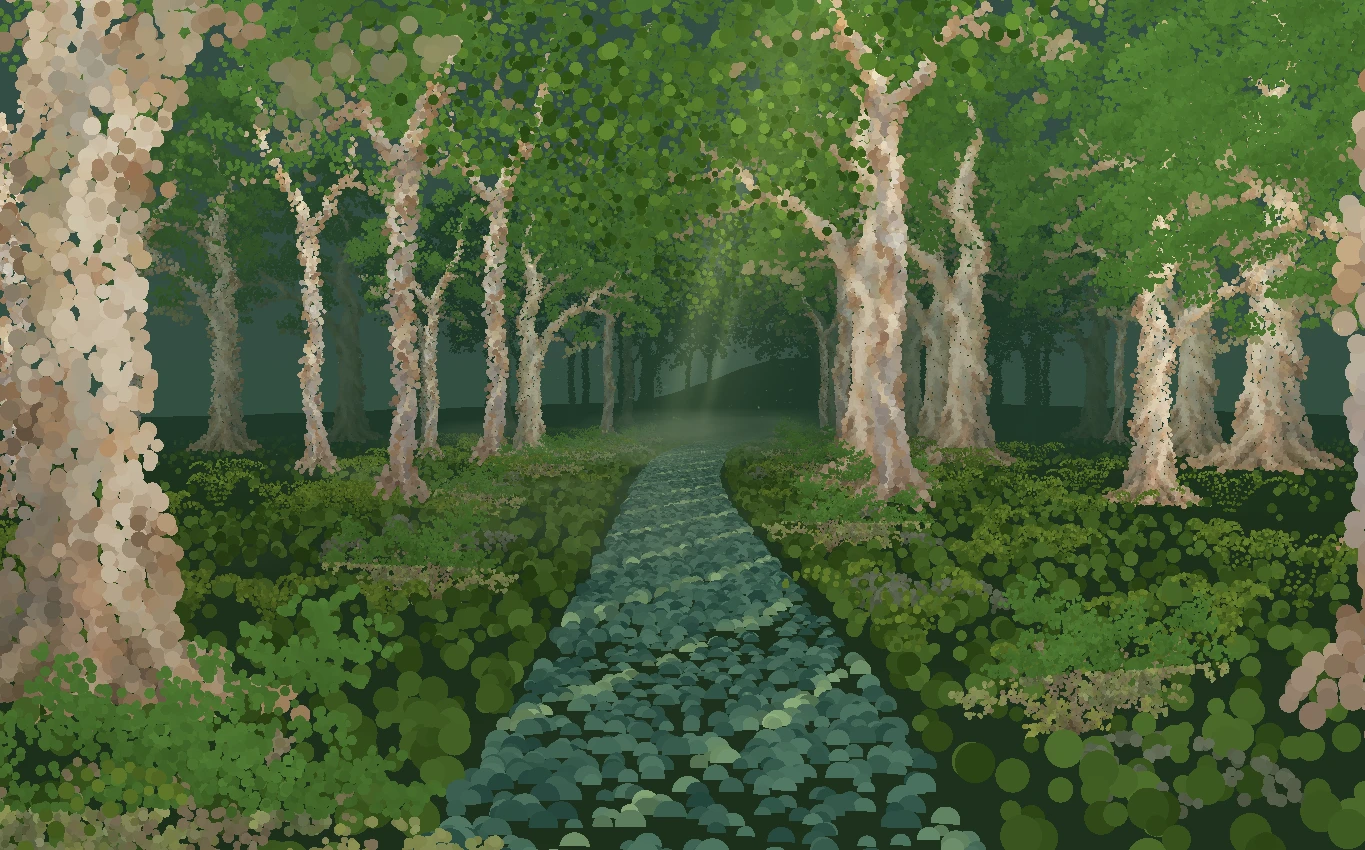
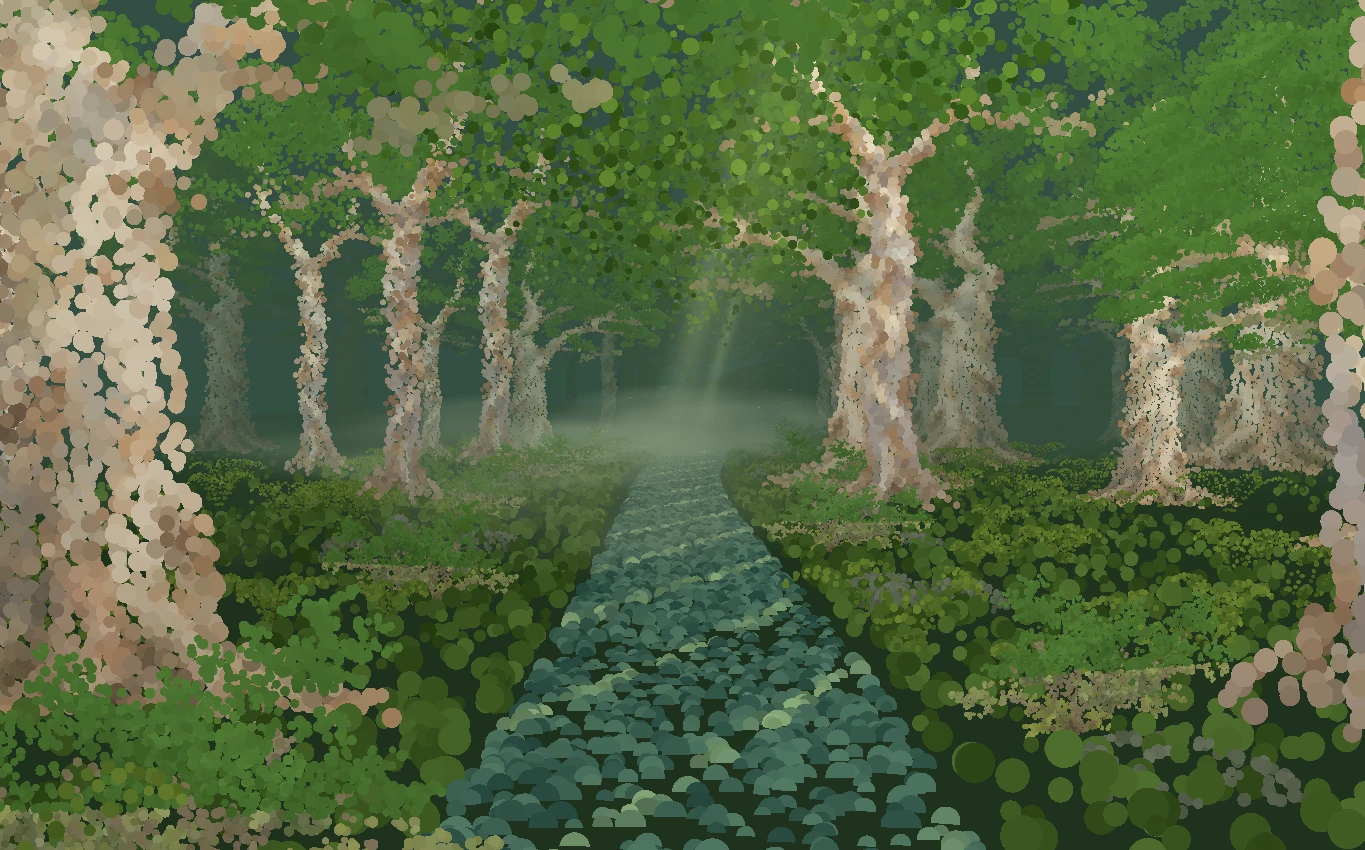
Refine woodland proportions, daylight mist and research copy

Changed region(s): [[0.0, 0.0, 1.0, 0.8871]]

diff --git a/journey.js b/journey.js
@@ -1,12 +1,12 @@
 import * as THREE from './assets/vendor/three.module.js';
-import {seeded,loadIllustration,treeGeometry,creekX,terrainHeight,groundChunk,waterChunk,canopyGeometry,cloudGeometry,bankDetail} from './botany.js?v=20261105-grove4';
-import {addAtmosphere} from './atmosphere.js?v=20261105-grove4';
+import {seeded,loadIllustration,treeGeometry,creekX,terrainHeight,groundChunk,waterChunk,canopyGeometry,cloudGeometry,bankDetail} from './botany.js?v=20261105-grove5';
+import {addAtmosphere} from './atmosphere.js?v=20261105-grove5';
 
 const canvas=document.getElementById('landscape');
 const reduced=matchMedia('(prefers-reduced-motion:reduce)');
 const mobile=matchMedia('(max-width:760px)').matches;
 const stats=window.journeyDiagnostics={ready:false,engine:'loading',frames:0,progress:0,camera:null,trees:0,points:0,paused:false};
-const poster=new Image();poster.onload=()=>document.querySelector('.landscape-fallback').classList.add('has-poster');poster.src=new URL('./assets/scene-fallback.webp',import.meta.url).href;
+const poster=new Image();poster.onload=()=>document.querySelector('.landscape-fallback').classList.add('has-poster');poster.src=new URL('./assets/scene-fallback.webp?v=20261105-grove5',import.meta.url).href;
 let renderer;
 try{renderer=new THREE.WebGLRenderer({canvas,alpha:false,antialias:false,powerPreference:'high-performance'});}catch{fallback()}
 if(renderer)build().catch(error=>{console.warn('Journey fallback:',error.message);renderer.dispose();fallback()});
@@ -17,7 +17,7 @@ async function build(){
  const scene=new THREE.Scene(),camera=new THREE.PerspectiveCamera(mobile?68:57,1,.1,420);
  const rng=seeded(87197),trees=[],chunks=[],shafts=[];
  const [treeArt,slenderArt,shrubArt,appleArt,mountainArt]=await Promise.all(['eucalyptus','eucalyptus-slender','shrub','apple','mountains'].map(name=>loadIllustration(new URL(`./assets/illustrations/${name}.webp`,import.meta.url).href)));
- const baseTree=treeGeometry(treeArt,{grid:mobile?93:126}),slenderTree=treeGeometry(slenderArt,{grid:mobile?93:126,seed:647}),appleTree=treeGeometry(appleArt,{grid:mobile?144:202,apple:true});
+ const baseTree=treeGeometry(treeArt,{grid:mobile?93:126,trunkWidth:1.5,canopyDrop:.12}),slenderTree=treeGeometry(slenderArt,{grid:mobile?93:126,seed:647,trunkWidth:1.55,canopyDrop:.12}),appleTree=treeGeometry(appleArt,{grid:mobile?144:202,apple:true,trunkWidth:1.3,canopyDrop:.06});
  const fogColor=new THREE.Color(.12,.22,.17);
  const u={uTime:{value:0},uNight:{value:0},uOpen:{value:0},uMotion:{value:1},uPixel:{value:700},uFogNear:{value:20},uFogFar:{value:65},uFog:{value:fogColor}};
  const pointMaterial=new THREE.ShaderMaterial({uniforms:u,depthTest:true,depthWrite:true,transparent:false,
@@ -99,7 +99,7 @@ async function build(){
   vertexShader:`varying vec2 vUv;void main(){vUv=uv;gl_Position=vec4(position.xy,1.,1.);}`,
   fragmentShader:`varying vec2 vUv;uniform float uNight,uOpen,uAspect;uniform vec2 uSunUv;void main(){float h=smoothstep(0.,1.,vUv.y);vec3 day=mix(vec3(.21,.33,.25),vec3(.20,.30,.27),h);vec3 night=mix(vec3(.075,.13,.18),vec3(.045,.075,.14),h);vec3 evening=mix(vec3(.93,.60,.43),vec3(.40,.36,.52),smoothstep(.04,.95,vUv.y));vec3 c=mix(mix(day,night,uNight),evening,uOpen);vec2 q=(vUv-uSunUv)*vec2(uAspect,1.);float r=length(q);c+=vec3(.28,.17,.065)*exp(-r*r*42.)*uOpen;vec2 moon=(vUv-vec2(.74,.73))*vec2(uAspect,1.);float m=length(moon);c+=vec3(.33,.42,.50)*exp(-m*m*240.)*uNight;c+=vec3(.55,.59,.58)*(1.-smoothstep(.013,.023,m))*uNight;gl_FragColor=vec4(c,1.);}`
  }));sky.frustumCulled=false;sky.renderOrder=-100;scene.add(sky);
- const sunset=new THREE.Mesh(new THREE.PlaneGeometry(13,13),new THREE.ShaderMaterial({uniforms:{uOpen:skyU.uOpen},transparent:true,depthWrite:false,depthTest:true,blending:THREE.AdditiveBlending,
+ const sunset=new THREE.Mesh(new THREE.PlaneGeometry(20,20),new THREE.ShaderMaterial({uniforms:{uOpen:skyU.uOpen},transparent:true,depthWrite:false,depthTest:true,blending:THREE.AdditiveBlending,
   vertexShader:`varying vec2 vUv;void main(){vUv=uv;gl_Position=projectionMatrix*modelViewMatrix*vec4(position,1.);}`,
   fragmentShader:`varying vec2 vUv;uniform float uOpen;void main(){float r=length(vUv-.5)*2.;float core=1.-smoothstep(.16,.25,r);float halo=exp(-r*r*5.);float alpha=(core*.85+halo*.35)*uOpen;gl_FragColor=vec4(mix(vec3(1.,.53,.20),vec3(1.,.94,.67),core),alpha);}`}));
  sunset.position.set(60,34,-305);scene.add(sunset);
@@ -125,7 +125,7 @@ async function build(){
  let width=0,height=0,progress=0,target=0,time=0,frame=0,last=0,anchors=[];
  let capture=false,annotationActive=false;
  const pointer={x:0,y:0},smoothPointer={x:0,y:0};
- const stateColors={day:new THREE.Color(.12,.22,.16),night:new THREE.Color(.055,.10,.145),open:new THREE.Color(.72,.55,.47)};
+ const stateColors={day:new THREE.Color(.20,.30,.235),night:new THREE.Color(.055,.10,.145),open:new THREE.Color(.72,.55,.47)};
  function cacheAnchors(){anchors=[...document.querySelectorAll('[data-stage]')].map(el=>({y:el.offsetTop,p:Number(el.dataset.stage)}));target=mapScroll(scrollY)}
  function mapScroll(y){for(let i=0;i<anchors.length-1;i++){const a=anchors[i],b=anchors[i+1];if(y<=b.y)return THREE.MathUtils.lerp(a.p,b.p,THREE.MathUtils.clamp((y-a.y)/Math.max(1,b.y-a.y),0,1))}return 1}
  function resize(){
@@ -143,7 +143,7 @@ async function build(){
   camera.updateMatrixWorld();sunProjection.copy(sunset.position).project(camera);skyU.uSunUv.value.set(sunProjection.x*.5+.5,sunProjection.y*.5+.5);
   fogColor.copy(stateColors.day).lerp(stateColors.night,night).lerp(stateColors.open,open);
   u.uTime.value=time;u.uNight.value=night;u.uOpen.value=open;u.uMotion.value=reduced.matches||annotationActive?0:1;
-  u.uFogNear.value=18+open*22;u.uFogFar.value=61+open*126;scene.fog.color.copy(fogColor);scene.fog.near=u.uFogNear.value;scene.fog.far=u.uFogFar.value;
+  u.uFogNear.value=14+night*4+open*26;u.uFogFar.value=54+night*7+open*133;scene.fog.color.copy(fogColor);scene.fog.near=u.uFogNear.value;scene.fog.far=u.uFogFar.value;
   skyU.uNight.value=night;skyU.uOpen.value=open;
   floorMaterial.color.setRGB(.11+open*.23,.19+open*.23,.105+open*.04).multiplyScalar(1-night*.62);
   mountainMaterial.opacity=open;clouds.visible=open>.02;apple.visible=progress>.4;hillDetail.visible=progress>.45;sunset.visible=open>.02;sunset.quaternion.copy(camera.quaternion);

diff --git a/style.css b/style.css
@@ -3,7 +3,7 @@
 @font-face{font-family:Journey Art;src:url('./assets/fonts/art-headings.woff2');font-display:swap}
 :root{--ivory:#f1efdd;--gold:#e5c68c;--muted:#d0d9c3;--ink:#28391d;--line:#eeeed332;--serif:'Journey Serif',Georgia,serif;--body:'Journey Sans','Microsoft YaHei','PingFang SC',sans-serif;color-scheme:dark}
 *{box-sizing:border-box}html{scroll-behavior:smooth;scroll-padding-top:60px}body{margin:0;background:#1b3029;color:var(--ivory);font:19px/1.85 var(--body);-webkit-font-smoothing:antialiased;overflow-x:hidden}h1,h2,h3,h4,p{margin:0}a{color:inherit;text-decoration:none}button{font:inherit}a:focus-visible,button:focus-visible{outline:2px solid var(--gold);outline-offset:7px}::selection{background:#b2bb86;color:#14291b}
-#landscape,.landscape-fallback,.vignette{position:fixed;inset:0;width:100%;height:100lvh;pointer-events:none}#landscape{z-index:0;opacity:0;transition:opacity 1.2s}.scene-ready #landscape{opacity:1}.landscape-fallback{z-index:-1;background:radial-gradient(ellipse at 35% 60%,#12271d3b,#18251c8c),linear-gradient(#304f32,#172e2b)}.landscape-fallback.has-poster{background:#1d3127 url('./assets/scene-fallback.webp') center/cover no-repeat}.vignette{z-index:1;background:radial-gradient(ellipse at center,transparent 30%,#07150b38 100%)}
+#landscape,.landscape-fallback,.vignette{position:fixed;inset:0;width:100%;height:100lvh;pointer-events:none}#landscape{z-index:0;opacity:0;transition:opacity 1.2s}.scene-ready #landscape{opacity:1}.landscape-fallback{z-index:-1;background:radial-gradient(ellipse at 35% 60%,#12271d3b,#18251c8c),linear-gradient(#304f32,#172e2b)}.landscape-fallback.has-poster{background:#1d3127 url('./assets/scene-fallback.webp?v=20261105-grove5') center/cover no-repeat}.vignette{z-index:1;background:radial-gradient(ellipse at center,transparent 30%,#07150b38 100%)}
 .nav{position:fixed;left:0;right:0;top:0;z-index:30;padding:25px 38px;display:flex;align-items:center;justify-content:space-between;gap:25px}.wordmark{font:italic 26px/1 var(--serif);letter-spacing:-.8px;text-shadow:0 2px 16px #101a12a0}.nav nav{display:flex;align-items:center;gap:27px;font-size:15px;text-shadow:0 2px 12px #122315}.nav nav>a:not(.action){padding:6px 0;position:relative}.nav nav>a:not(.action)::after{content:'';position:absolute;left:0;right:0;bottom:2px;height:1px;background:currentColor;transform:scaleX(0);transform-origin:left;transition:transform .25s}.nav nav>a:hover::after{transform:scaleX(1)}
 .action{display:inline-flex;align-items:center;justify-content:space-between;gap:35px;min-height:56px;padding:12px 22px 12px 27px;color:#4b481f;background:var(--ivory);border:1px solid #fff6d940;border-radius:100px;font-size:16px;line-height:1.4;text-shadow:none;box-shadow:0 5px 20px #0c170b13;transition:transform .25s,background .25s,box-shadow .25s}.action span{font-size:21px;transition:transform .25s}.action:hover{background:#fff8df;transform:translateY(-2px);box-shadow:0 8px 28px #0c170b36}.action:hover span{transform:translate(2px,-1px)}.action:active{transform:translateY(0)}.action.small{font-size:13px;min-height:44px;padding:10px 20px;gap:22px}.action.small span{font-size:17px}
 main{position:relative;z-index:10;overflow:clip}.panel{min-height:100svh;position:relative;display:flex;align-items:center;padding:120px 8vw 115px}.wrap{width:min(1080px,100%);margin-inline:auto;position:relative}.scrim{isolation:isolate;text-shadow:0 2px 24px #07130c9c}.scrim::before{content:'';position:absolute;z-index:-1;inset:-95px -55px;pointer-events:none;background:radial-gradient(ellipse at 38% 50%,#0b190ed6, #0b190e78 53%,transparent 78%);filter:blur(22px)}.wrap.narrow{max-width:1080px;padding-right:37%}.wrap.narrow::before{right:28%}.identity{font-size:16px;letter-spacing:.7px;color:#e0e6d4;margin-bottom:27px;text-shadow:0 2px 15px #0c170ae6}.intro-copy{padding-right:20%;text-shadow:0 2px 35px #0b170b96}.intro h1{font:italic 400 clamp(73px,8.5vw,132px)/1.07 var(--serif);letter-spacing:-.055em;margin-left:-5px}.bio{font-size:23px;line-height:1.85;white-space:pre-line;margin:29px 0 31px;color:#e9eddb}.scroll-cue{position:absolute;bottom:31px;left:50%;transform:translateX(-50%);display:flex;flex-direction:column;align-items:center;gap:3px;font-size:12px;letter-spacing:3px;color:#e0e5cc;text-shadow:0 2px 12px #101e13}.scroll-cue span{font-size:25px;animation:scroll-hint 2.8s ease-in-out infinite}

diff --git a/profile.js b/profile.js
@@ -2,21 +2,21 @@ window.PROFILE = {
   name: 'LHC-PROG',
   handle: 'LHC-PROG',
   title: 'LHC-PROG · 研究与实践',
-  tagline: '中南大学 · 计算机科学与技术 · 大三',
+  tagline: '中南大学 · 计算机科学与技术',
   bio: '具身智能 · 机器学习\n3D 视觉 · 医学影像处理',
   github: 'https://github.com/LHC-PROG',
   research: {
     title: '具身智能 · X-VLA 研究',
-    description: '围绕 X-VLA 跨域 Soft Prompt 共享与 VGGT 空间知识注入开展研究，完成六域模型部署与系统评测。',
+    description: '研究 X-VLA 跨域 Soft Prompt 共享与 VGGT 几何注入，比较参数共享与蒸馏方法，在六域完成模型部署与系统评测。',
     domains: ['Google Robot', 'CALVIN', 'LIBERO', 'WidowX', 'RoboTwin2', 'VLABench'],
     findings: [
-      { title: '共享基线', text: '简单参数共享（DirectMean）是有竞争力的基线；当前复杂离线蒸馏尚未超越它。' },
-      { title: '几何表征', text: 'VGGT 含有超出二维网格的空间结构，但通用几何监督尚未带来稳定的动作收益。' }
+      { title: '共享基线的竞争力', text: 'DirectMean 参数共享具有竞争力；当前复杂离线蒸馏尚未超越这一简单基线。' },
+      { title: '几何结构与动作收益', text: 'VGGT 含有超出二维网格的空间结构，但通用几何监督尚未带来稳定的动作收益。' }
     ],
     contributions: [
-      { title: '基线复现', text: '完成 X-VLA 六域模型的部署与评测，贯通模型服务、动作转换与结果记录。' },
-      { title: '方法设计与实现', text: '设计并实现参数、行为、轨迹三个层面的 Soft Prompt 蒸馏，以及 GI-RGD、GCRP、Spatial Forcing 几何注入方案；用 PyTorch 搭建训练原型，管理实验版本。' },
-      { title: '实验调试与诊断', text: '通过梯度分析、模块隔离与参数替换定位训练异常，结合损失、表征相关性与 rollout 行为交叉诊断，保留配置、结果与失效证据。' }
+      { title: '基线复现', text: '完成 X-VLA 六域部署，贯通模型服务、动作转换与结果记录，建立可复现的评测流程。' },
+      { title: '方法实现', text: '实现参数级、行为级与轨迹级 Soft Prompt 蒸馏，以及 GI-RGD、GCRP、Spatial Forcing 几何注入方案；用 PyTorch 搭建训练原型，管理实验版本。' },
+      { title: '诊断与追溯', text: '通过梯度分析、模块隔离与参数替换定位异常，结合损失曲线、表征相关性与 rollout 行为交叉诊断，保留配置、结果与失效证据。' }
     ]
   },
   skills: [
@@ -27,7 +27,7 @@ window.PROFILE = {
   practice: {
     title: 'MiniCamp',
     label: '黑客松 · 校园协作',
-    description: '参与活动统筹、宣传与现场执行，协助对接赞助合作。',
+    description: '参与活动统筹、宣传与现场执行，协同推进赞助对接。',
     url: 'https://ttesestt.nanocamp.club/minicamp/'
   }
 };

diff --git a/botany.js b/botany.js
@@ -11,14 +11,19 @@ export function pointData(){return{position:[],color:[],aSize:[],aLeaf:[],aSeed:
 export function pushPoint(data,p,c,size,leaf,kind,rng){data.position.push(...p);data.color.push(...c);data.aSize.push(size);data.aLeaf.push(leaf);data.aKind.push(kind);data.aSeed.push(rng()*Math.PI*2)}
 
 // Botanical illustrations become individual volumetric tree specimens, rooted at their own bases.
-export function treeGeometry(image,{grid=126,apple=false,seed=317}={}){
+export function treeGeometry(image,{grid=126,apple=false,seed=317,trunkWidth=1,canopyDrop=0}={}){
  const rng=seeded(seed),canvas=document.createElement('canvas');
  canvas.width=grid;canvas.height=Math.round(grid*image.height/image.width);
  const ctx=canvas.getContext('2d',{willReadFrequently:true});ctx.drawImage(image,0,0,canvas.width,canvas.height);
  const {width:w,height:h}=canvas,pixels=ctx.getImageData(0,0,w,h).data;
  let rootSum=0,rootWeight=0;
  for(let y=Math.floor(h*.9);y<h;y++)for(let x=0;x<w;x++){const a=pixels[(y*w+x)*4+3];if(a>145){rootSum+=x*a;rootWeight+=a}}
- const root=rootWeight?rootSum/rootWeight/w:.5,aspect=w/h,data=pointData();
+ const root=rootWeight?rootSum/rootWeight/w:.5,aspect=w/h,data=pointData(),barkCenters=[];
+ if(trunkWidth>1)for(let y=0;y<h;y++){
+  let sum=0,weight=0;
+  for(let x=0;x<w;x++){const i=(y*w+x)*4,r=pixels[i],g=pixels[i+1],b=pixels[i+2],a=pixels[i+3];if(a>145&&!(g>r*.94&&g>b*1.03)){sum+=x*a;weight+=a}}
+  barkCenters[y]=weight?sum/weight:w*root;
+ }
  for(let y=0;y<h;y++)for(let x=0;x<w;x++){
   const i=(y*w+x)*4,alpha=pixels[i+3]/255;if(alpha<.49||rng()>.68+alpha*.31)continue;
   const r=pixels[i]/255,g=pixels[i+1]/255,b=pixels[i+2]/255;
@@ -26,7 +31,9 @@ export function treeGeometry(image,{grid=126,apple=false,seed=317}={}){
   const leaf=height>.4&&g>r*.94&&g>b*1.03?1:height>.62&&luma<.59?.65:0;
   let color=apple?[r*.96,g*.97,b*.94]:leaf?[.14+luma*.31,.25+luma*.43,.075+luma*.22]:[r*.97+.04,g*.98+.045,b*.95+.045];
   color=color.map(v=>Math.min(1,v));
-  const px=((x+(rng()-.5)*.6)/w-root)*aspect,py=(h-y+(rng()-.5)*.5)/h;
+  let px=((x+(rng()-.5)*.6)/w-root)*aspect;
+  const rawHeight=(h-y+(rng()-.5)*.5)/h,py=rawHeight-canopyDrop*THREE.MathUtils.smoothstep(rawHeight,.25,.72);
+  if(trunkWidth>1&&leaf<.3){const center=(barkCenters[y]/w-root)*aspect;px=center+(px-center)*(1+(trunkWidth-1)*(1-THREE.MathUtils.smoothstep(rawHeight,.32,.64)))}
   const thickness=(leaf?.09:.035)*Math.sin(Math.PI*Math.min(.98,py+.04));
   pushPoint(data,[px,py,(rng()-.5)*thickness],color,(1.35+rng()*.9)/h,leaf,apple?3:0,rng);
  }
@@ -79,7 +86,7 @@ export function canopyGeometry(seed=1){
  const rng=seeded(seed),data=pointData();
  for(let i=0;i<15500;i++){
   const z=18-rng()*163,x=creekX(z)+(rng()*2-1)*7;
-  const y=7+Math.abs(x-creekX(z))*.35+rng()*4.5+.8*Math.sin(z*.4+x);
+  const y=6.3+Math.abs(x-creekX(z))*.35+rng()*4.1+.8*Math.sin(z*.4+x);
   const l=rng();pushPoint(data,[x,y,z],[.16+l*.26,.29+l*.3,.07+l*.14],.13+rng()*.16,1,0,rng);
  }
  return geometryFromArrays(data);

diff --git a/index.html b/index.html
@@ -1,5 +1,5 @@
 <!doctype html>
-<html lang="zh-CN"><head><meta charset="utf-8"><meta name="viewport" content="width=device-width,initial-scale=1"><meta name="color-scheme" content="dark"><meta name="description" content="LHC-PROG 的研究与实践。关注具身智能、机器学习、3D 视觉与医学影像处理。"><title>LHC-PROG · 研究与实践</title><link rel="icon" href="./assets/leaf.svg" type="image/svg+xml"><link rel="stylesheet" href="./style.css?v=20261105-grove4"><script src="./profile.js?v=20261105-grove4" defer></script><script src="./content.js?v=20261105-grove4" defer></script><script type="module" src="./journey.js?v=20261105-grove4"></script></head>
+<html lang="zh-CN"><head><meta charset="utf-8"><meta name="viewport" content="width=device-width,initial-scale=1"><meta name="color-scheme" content="dark"><meta name="description" content="LHC-PROG 的研究与实践。关注具身智能、机器学习、3D 视觉与医学影像处理。"><title>LHC-PROG · 研究与实践</title><link rel="icon" href="./assets/leaf.svg" type="image/svg+xml"><link rel="stylesheet" href="./style.css?v=20261105-grove5"><script src="./profile.js?v=20261105-copy5" defer></script><script src="./content.js?v=20261105-grove4" defer></script><script type="module" src="./journey.js?v=20261105-grove5"></script></head>
 <body><a class="skip-link" href="#research">跳至研究内容</a>
 <div class="landscape-fallback" aria-hidden="true"></div><canvas id="landscape" role="img" aria-label="沿溪流穿过颗粒化树林、进入夜色、再登上山丘的连续三维景观"></canvas><div class="vignette" aria-hidden="true"></div>
 <header class="nav"><a class="wordmark" href="#top" aria-label="回到起点">LHC-PROG</a><nav aria-label="主要入口"><a href="#research">研究</a><a href="#practice">MiniCamp</a><a class="action small" data-github href="https://github.com/LHC-PROG" target="_blank" rel="noopener noreferrer">GitHub <span aria-hidden="true">↗</span></a></nav></header>

diff --git a/atmosphere.js b/atmosphere.js
@@ -1,5 +1,5 @@
 import * as THREE from './assets/vendor/three.module.js';
-import {seeded,creekX,terrainHeight} from './botany.js?v=20261105-grove4';
+import {seeded,creekX,terrainHeight} from './botany.js?v=20261105-grove5';
 
 // Atmosphere occupies the same world as the trees: it recedes, drifts and is occluded by the banks.
 export function addAtmosphere(scene,u,{mobile=false}={}){
@@ -16,7 +16,7 @@ export function addAtmosphere(scene,u,{mobile=false}={}){
    vec2 q=vec2(vWorld.x*.20-t*.035,vWorld.z*.10+t*.018)+vUv*vec2(3.,2.);
    float n=noise(q)*.65+noise(q*2.13+4.)*.35;
    float depth=smoothstep(2.,8.,vDepth)*(1.-smoothstep(uFogFar*.65,uFogFar*1.1,vDepth));
-   float alpha=edge*smoothstep(.18,.78,n)*depth*(.17-uOpen*.065);
+   float alpha=edge*smoothstep(.12,.72,n)*depth*mix(.30,.18,uNight)*(1.-uOpen*.24);
    vec3 color=mix(vec3(.67,.72,.59),vec3(.37,.48,.58),uNight);color=mix(color,vec3(.87,.72,.58),uOpen*.65);
    gl_FragColor=vec4(mix(color,uFog,.23),alpha);
   }`
@@ -25,8 +25,8 @@ export function addAtmosphere(scene,u,{mobile=false}={}){
  for(let i=0;i<32;i++){
   const hill=i>21,z=hill?-166-(i-22)*11:17-i*8.5;
   const x=hill?(i%2?-1:1)*(13+rng()*15):creekX(z)+(rng()-.5)*8;
-  const mesh=new THREE.Mesh(quad,mistMaterial),width=hill?23+rng()*12:13+rng()*10,height=1.3+rng()*2;
-  mesh.scale.set(width,height,1);mesh.position.set(x,terrainHeight(x,z)+.5+height*.25,z);
+  const mesh=new THREE.Mesh(quad,mistMaterial),width=hill?23+rng()*12:15+rng()*11,height=2+rng()*2.8;
+  mesh.scale.set(width,height,1);mesh.position.set(x,terrainHeight(x,z)+.55+height*.30,z);
   mesh.userData={originX:x,phase:rng()*Math.PI*2};mesh.renderOrder=2;scene.add(mesh);veils.push(mesh);
  }
 
